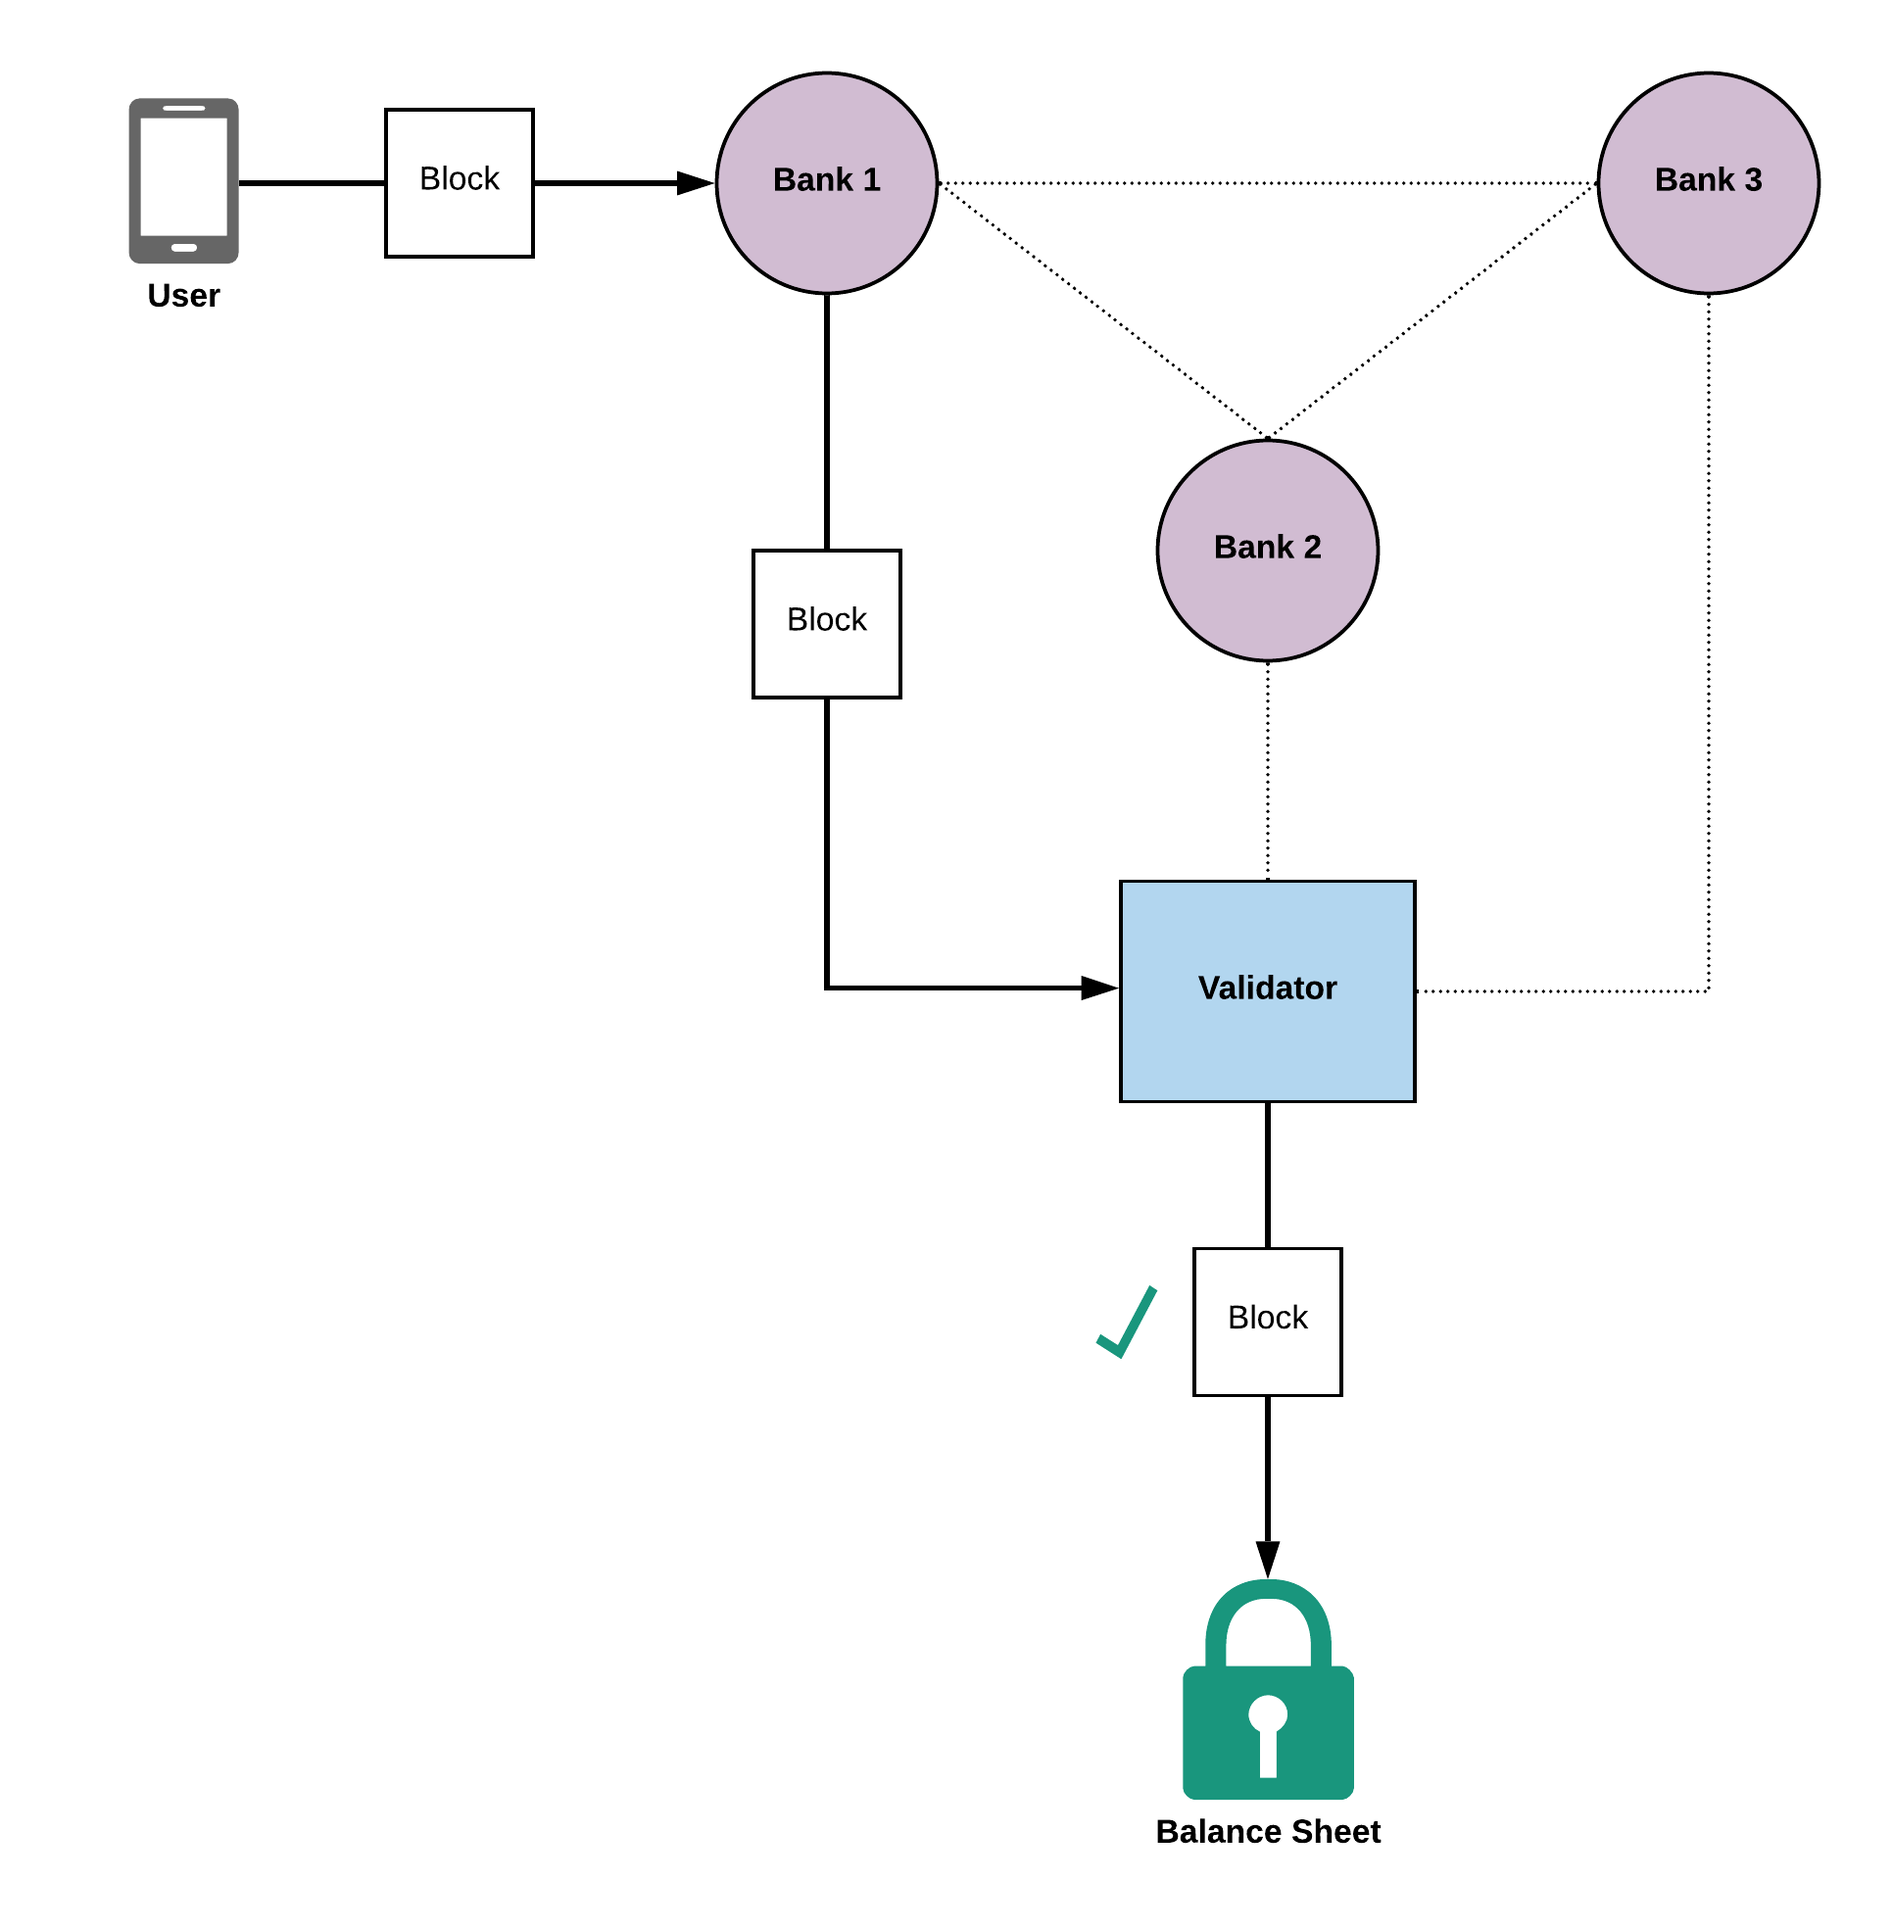
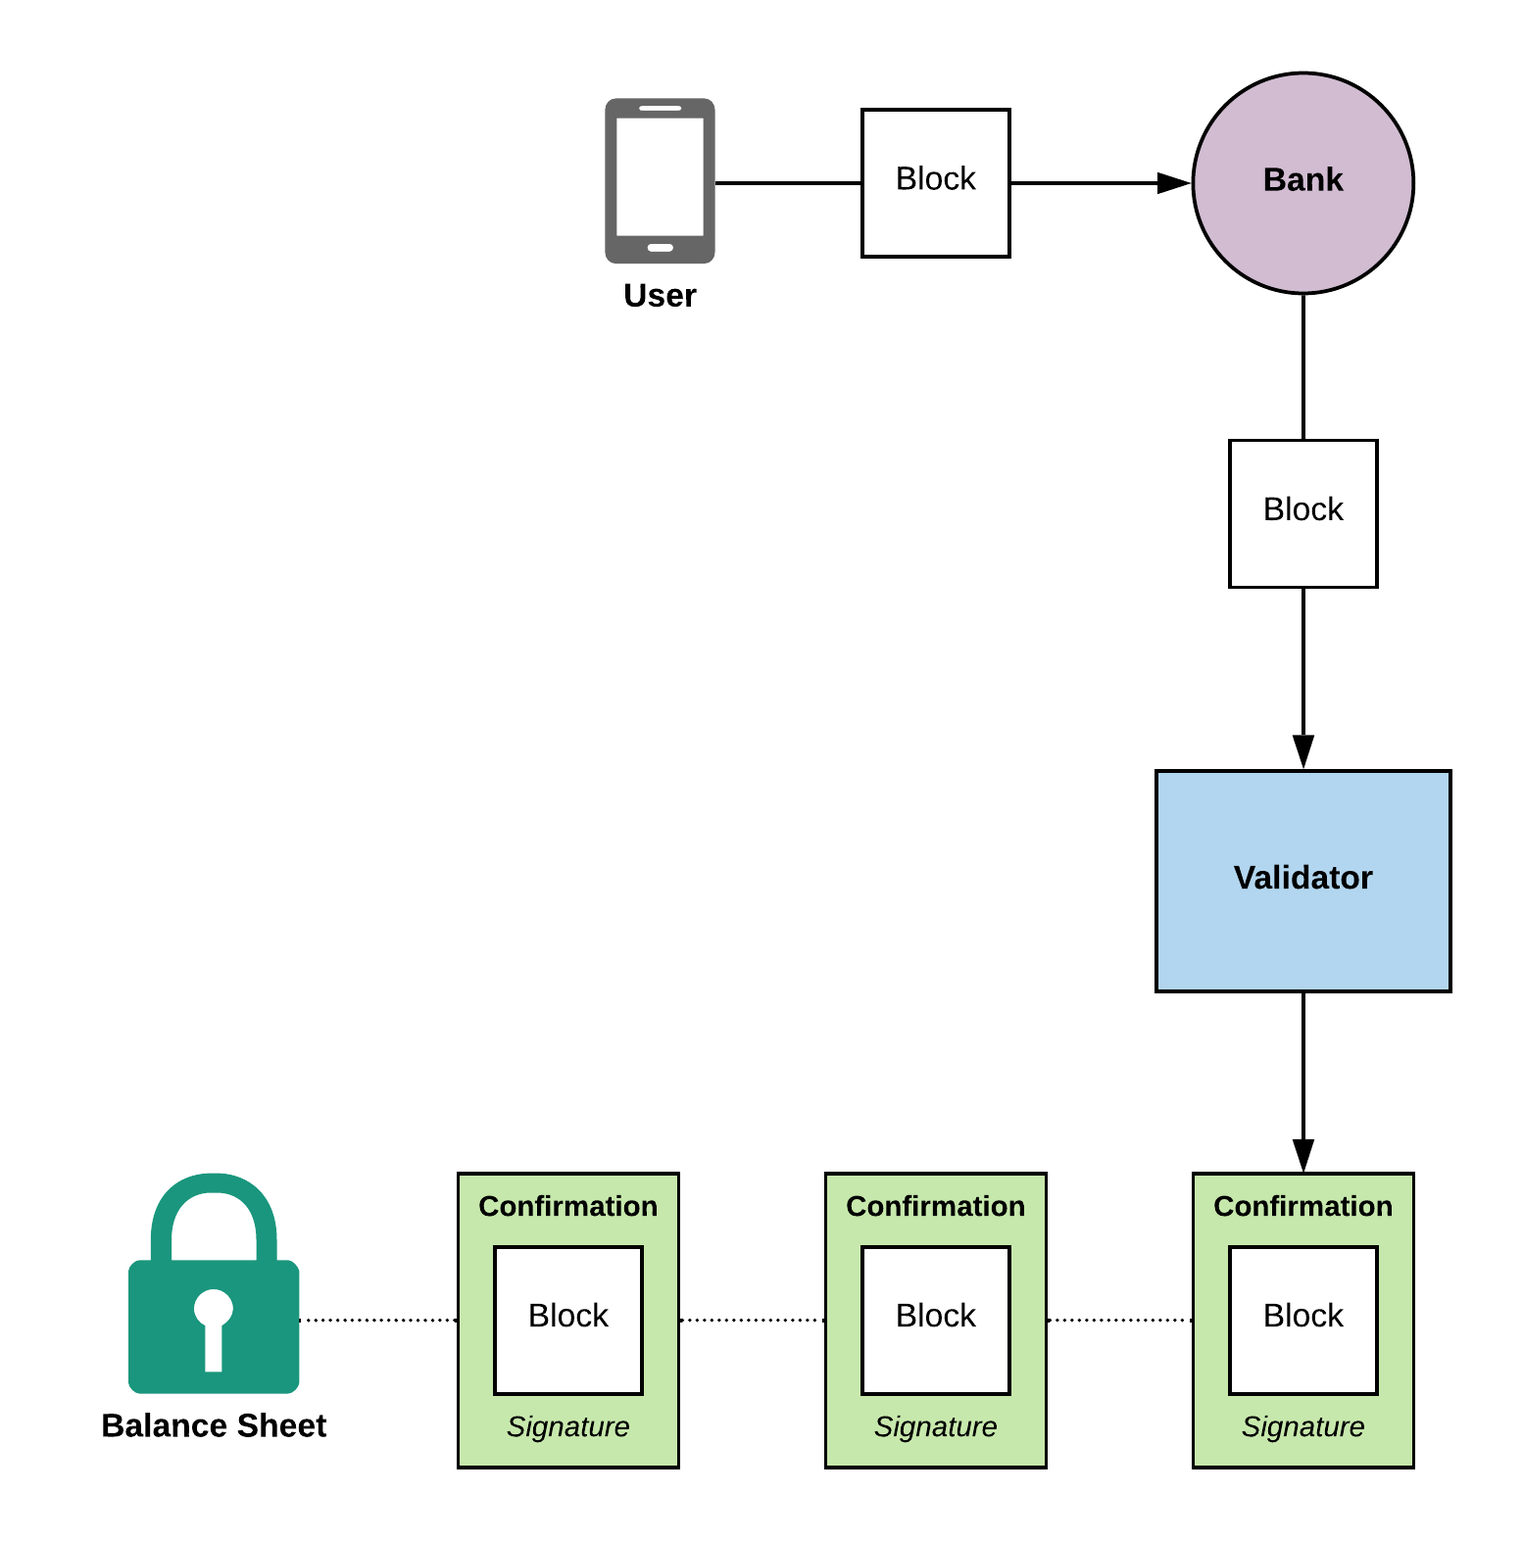
New graphic

diff --git a/src/containers/Docs/Overview/index.tsx b/src/containers/Docs/Overview/index.tsx
@@ -13,11 +13,7 @@ const Overview = () => {
       </tr>
       <tr>
         <td>Block</td>
-        <td>a signed list of one or more transactions</td>
-      </tr>
-      <tr>
-        <td>Confirmation</td>
-        <td>a Block that has been signed by a validator as confirmation it has been added to their blockchain</td>
+        <td>a list of one or more transactions, signed (authorized) by the account owner</td>
       </tr>
       <tr>
         <td>Signature</td>
@@ -25,32 +21,29 @@ const Overview = () => {
       </tr>
       <tr>
         <td>Bank</td>
-        <td>
-          a network server that has several responsibilities such as electing a validator and routing member
-          transactions
-        </td>
-      </tr>
-      <tr>
-        <td>Member</td>
-        <td>a user belonging to a bank</td>
+        <td>a network server that has several responsibilities such as electing a validator</td>
       </tr>
       <tr>
         <td>Validator</td>
         <td>
-          a central server that accepts transactions from multiple banks, and after final validation adds those
-          transactions to the transaction ledger (commonly referred to as "the ledger") and updates account balances
+          a central server that accepts blocks from multiple banks and after validation adds those blocks to the
+          blockchain while updating account balances
         </td>
       </tr>
       <tr>
-        <td>Base Balance Sheet</td>
+        <td>Confirmation</td>
         <td>
-          a historical record of all account balances at the time the primary validator was first elected (never
-          changes)
+          a block that has been signed by a validator as confirmation it has been added to their blockchain, indicating
+          that the transactions have been authorized and the points have been successfully transferred
         </td>
       </tr>
       <tr>
-        <td>Live Balance Sheet</td>
-        <td>a current record of all account balances</td>
+        <td>Root Balance Sheet</td>
+        <td>a historic record of all account balances at a given point in time</td>
+      </tr>
+      <tr>
+        <td>Blockchain</td>
+        <td>a validators log of all of confirmed transactions since the creation of the balance sheet (or earlier)</td>
       </tr>
     </table>
   );
@@ -59,9 +52,9 @@ const Overview = () => {
     <section className="Overview">
       <h1 className="page-title">Overview</h1>
       <p>
-        The system is composed of many nodes, each of which play a specific role in allowing the transfer of points (the
-        currency of the system) between users. Each of these nodes will be discussed in more detail in future sections,
-        but for now we will examine a simplified network composed of the core components.
+        The system is composed of many components, each of which play a specific role in allowing the transfer of points
+        (the currency of the system) between users. Each of these nodes will be discussed in more detail in future
+        sections, but for now we will examine a simplified network composed of the core components.
       </p>
       {renderGlossary()}
       <div className="img-container">

diff --git a/src/containers/Home/index.tsx b/src/containers/Home/index.tsx
@@ -23,7 +23,7 @@ const Home = () => {
     <div className="overview">
       <h3>Overview</h3>
       <p>
-        Digital currency allows users from all around the world to send points to each other in exchange for goods and
+        Digital currency allows users from all around the world to send points to one another in exchange for goods and
         services. Unlike traditional currency, users are in complete control of their own accounts. On thenewboston, all
         transactions are instant. Overdraft, minimum balance, and checking account fees do not exist. All of your points
         are available and accessible 24 hours a day, 7 days a week, 365 days a year.

diff --git a/src/containers/Docs/Overview/Overview.scss b/src/containers/Docs/Overview/Overview.scss
@@ -1,5 +1,5 @@
 .Overview {
   img.overview-diagram {
-    max-width: 800px;
+    max-width: 680px;
   }
 }
